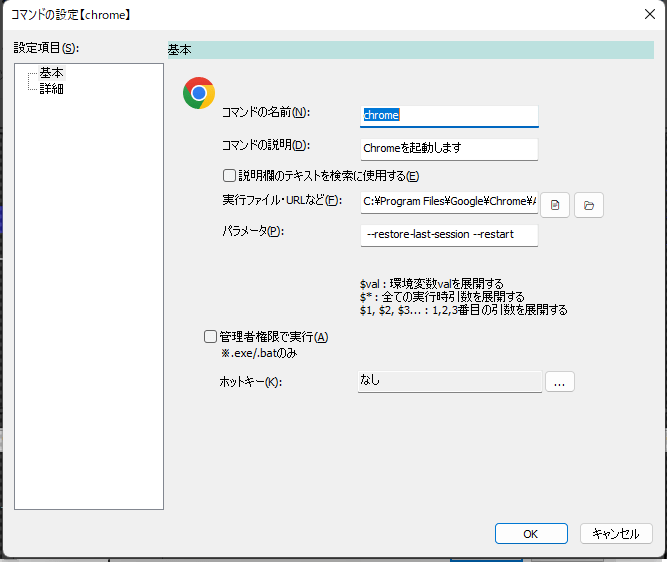
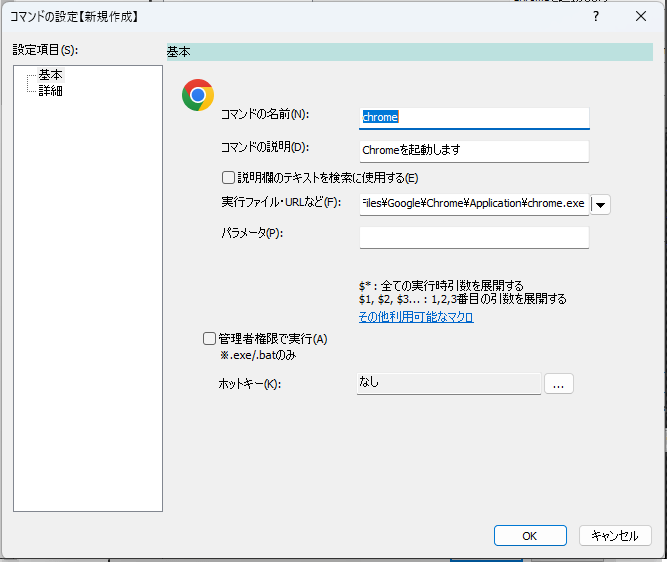
通常コマンドの設定画面にある、ファイル参照ボタンとフォルダ参照ボタンをMFCMenuButtonに統合

diff --git a/soyokaze/commands/shellexecute/CommandEditDialog.cpp b/soyokaze/commands/shellexecute/CommandEditDialog.cpp
@@ -55,6 +55,7 @@ void CommandEditDialog::DoDataExchange(CDataExchange* pDX)
 	DDX_Text(pDX, IDC_EDIT_HOTKEY2, mHotKey);
 	DDX_Check(pDX, IDC_CHECK_SHOWARGINPUT, mParam.mIsShowArgDialog);
 	DDX_Check(pDX, IDC_CHECK_USEDESCRIPTIONFORMATCHING, mParam.mIsUseDescriptionForMatching);
+	DDX_Control(pDX, IDC_BUTTON_MENU, mPathMenuBtn);
 }
 
 #pragma warning( push )
@@ -64,14 +65,13 @@ BEGIN_MESSAGE_MAP(CommandEditDialog, SettingPage)
 	ON_EN_CHANGE(IDC_EDIT_NAME, OnUpdateStatus)
 	ON_EN_CHANGE(IDC_EDIT_PATH, OnUpdateStatus)
 	ON_EN_CHANGE(IDC_EDIT_PARAM, OnUpdateStatus)
-	ON_COMMAND(IDC_BUTTON_BROWSEFILE1, OnButtonBrowseFile1Clicked)
-	ON_COMMAND(IDC_BUTTON_BROWSEDIR1, OnButtonBrowseDir1Clicked)
 	ON_COMMAND(IDC_BUTTON_HOTKEY, OnButtonHotKey)
 	ON_COMMAND(IDC_BUTTON_RESOLVESHORTCUT, OnButtonResolveShortcut)
 	ON_WM_CTLCOLOR()
 	ON_MESSAGE(WM_APP + 11, OnUserMessageIconChanged)
 	ON_NOTIFY(NM_CLICK, IDC_SYSLINK_MACRO, OnNotifyLinkOpen)
 	ON_NOTIFY(NM_RETURN, IDC_SYSLINK_MACRO, OnNotifyLinkOpen)
+	ON_BN_CLICKED(IDC_BUTTON_MENU, OnPathMenuBtnClicked)
 END_MESSAGE_MAP()
 
 #pragma warning( pop )
@@ -80,12 +80,13 @@ BOOL CommandEditDialog::OnInitDialog()
 {
 	__super::OnInitDialog();
 
+	mMenuForPathBtn.CreatePopupMenu();
+	mMenuForPathBtn.InsertMenu((UINT)-1, 0, 1, _T("ファイル選択"));
+	mMenuForPathBtn.InsertMenu((UINT)-1, 0, 2, _T("フォルダ選択"));
+	mPathMenuBtn.m_hMenu = (HMENU)mMenuForPathBtn;
+
 	mIconLabelPtr->SubclassDlgItem(IDC_STATIC_ICON, this);
 	mIconLabelPtr->EnableIconChange();
-
-	// File&Folder Select Button
-	GetDlgItem(IDC_BUTTON_BROWSEFILE1)->SetWindowTextW(L"\U0001F4C4");
-	GetDlgItem(IDC_BUTTON_BROWSEDIR1)->SetWindowTextW(L"\U0001F4C2");
 
 	UpdateStatus();
 	UpdateData(FALSE);
@@ -111,6 +112,12 @@ bool CommandEditDialog::UpdateStatus()
 		            std::regex_search((LPCTSTR)mParam.mNormalAttr.mParam, regArg);
 
 	GetDlgItem(IDC_CHECK_SHOWARGINPUT)->ShowWindow(hasArg? SW_SHOW : SW_HIDE);
+
+	// パスが有効なファイルだったら編集メニューを表示する
+	mMenuForPathBtn.DeleteMenu(3, MF_BYCOMMAND);
+	if (IsEditableFileType(targetPath)) {
+			mMenuForPathBtn.InsertMenu((UINT)-1, 0, 3, _T("編集"));
+	}
 
 	// .lnkだったらショートカット解決ボタンを表示する
 	GetDlgItem(IDC_BUTTON_RESOLVESHORTCUT)->ShowWindow(isShortcut? SW_SHOW : SW_HIDE);
@@ -187,6 +194,11 @@ void CommandEditDialog::OnButtonBrowseDir1Clicked()
 	mParam.mNormalAttr.mPath = dlg.GetPathName();
 	UpdateStatus();
 	UpdateData(FALSE);
+}
+
+void CommandEditDialog::OpenTarget()
+{
+	// FIXME: 実装
 }
 
 
@@ -314,6 +326,27 @@ void CommandEditDialog::ResolveShortcut(CString& path)
 	UpdateData(FALSE);
 }
 
+// (テキストエディタなどで)編集するようなファイルタイプか?
+bool CommandEditDialog::IsEditableFileType(const CString& path)
+{
+	// FIXME: 後で有効化する
+	return false;
+
+	if (PathFileExists(path) == FALSE || PathIsDirectory(path)) {
+		return false;
+	}
+
+	CString ext(PathFindExtension(path));
+
+	// 実行ファイルはバイナリ形式なので普通は編集しない
+	if (ext.CompareNoCase(_T(".exe")) == 0) {
+		return false;
+	}
+
+	// それ以外は編集する可能性がある
+	return true;
+}
+
 void CommandEditDialog::OnButtonResolveShortcut()
 {
 	ResolveShortcut(mParam.mNormalAttr.mPath);
@@ -358,6 +391,22 @@ void CommandEditDialog::OnNotifyLinkOpen(
 	auto manual = launcherapp::app::Manual::GetInstance();
 	manual->Navigate(_T("MacroList"));
 	*pResult = 0;
+}
+
+void CommandEditDialog::OnPathMenuBtnClicked()
+{
+	switch (mPathMenuBtn.m_nMenuResult) {
+		case 1:
+			OnButtonBrowseFile1Clicked();
+			break;
+		case 2:
+			OnButtonBrowseDir1Clicked();
+			break;
+		case 3:
+			// ToDo: テキストエディタで開く
+			OpenTarget();
+			break;
+	}
 }
 
 

diff --git a/soyokaze/resource.h b/soyokaze/resource.h
@@ -443,15 +443,16 @@
 #define IDC_STATIC_MODSANDS             1196
 #define IDC_STATIC_CACHECANDIDATES      1197
 #define IDC_LIST_ITEMS                  1198
+#define IDC_BUTTON_MENU                 1200
 #define ID_VIEW_HELP                    32775
 
 // Next default values for new objects
 // 
 #ifdef APSTUDIO_INVOKED
 #ifndef APSTUDIO_READONLY_SYMBOLS
-#define _APS_NEXT_RESOURCE_VALUE        245
+#define _APS_NEXT_RESOURCE_VALUE        246
 #define _APS_NEXT_COMMAND_VALUE         32776
-#define _APS_NEXT_CONTROL_VALUE         1200
+#define _APS_NEXT_CONTROL_VALUE         1201
 #define _APS_NEXT_SYMED_VALUE           101
 #endif
 #endif

diff --git a/soyokaze/commands/shellexecute/CommandEditDialog.h b/soyokaze/commands/shellexecute/CommandEditDialog.h
@@ -23,6 +23,7 @@ protected:
 	virtual BOOL OnInitDialog();
 
 	void ResolveShortcut(CString& path);
+	bool IsEditableFileType(const CString& path);
 
 	// 編集開始時のコマンド名
 	CString mOrgName;
@@ -40,6 +41,10 @@ public:
 
 	// アイコン(表示用)
 	HICON mIcon;
+
+	// 
+	CMFCMenuButton mPathMenuBtn;
+	CMenu mMenuForPathBtn;
 
 // 実装
 protected:
@@ -59,5 +64,7 @@ protected:
 	afx_msg void OnButtonResolveShortcut();
 	afx_msg LRESULT OnUserMessageIconChanged(WPARAM wp, LPARAM lp);
 	afx_msg void OnNotifyLinkOpen(NMHDR *pNMHDR, LRESULT *pResult);
+	afx_msg void OnPathMenuBtnClicked();
+	void OpenTarget();
 };
 

diff --git a/CHANGELOG.md b/CHANGELOG.md
@@ -18,9 +18,10 @@
 
 ### Changed
 
+- 通常コマンドの設定画面のUIを変更
+  - ファイル選択とフォルダ選択をメニューボタンに統合した
 - `コメント表示欄の初期表示テキスト`の初期値を変更(`コマンドを入力` → アプリケーション名)
   - 入力欄のプレースホルダーで「キーワードを入力してください」と表示するようにしたので、候補欄の表示テキストの方も変えることにした
-
 - コマンド表示順序決定の際に、追加で表示する系コマンドに対する優先順位については元のコマンドの優先度を適用するようにした
 
 ### Fixed
